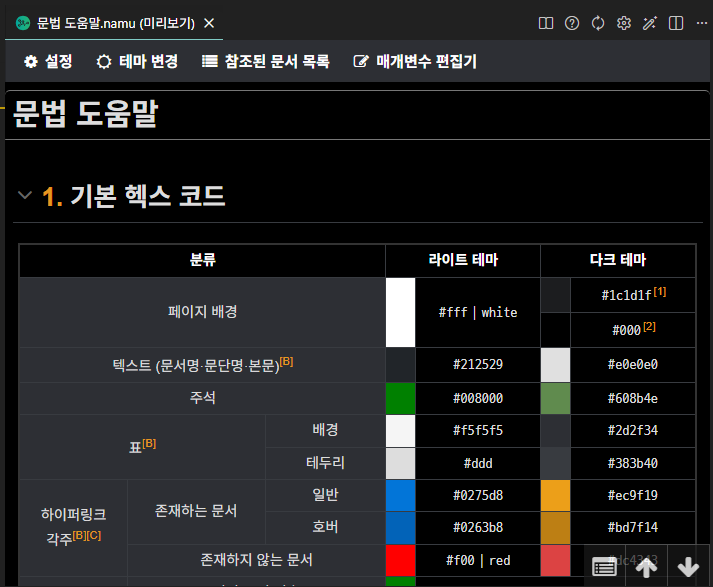
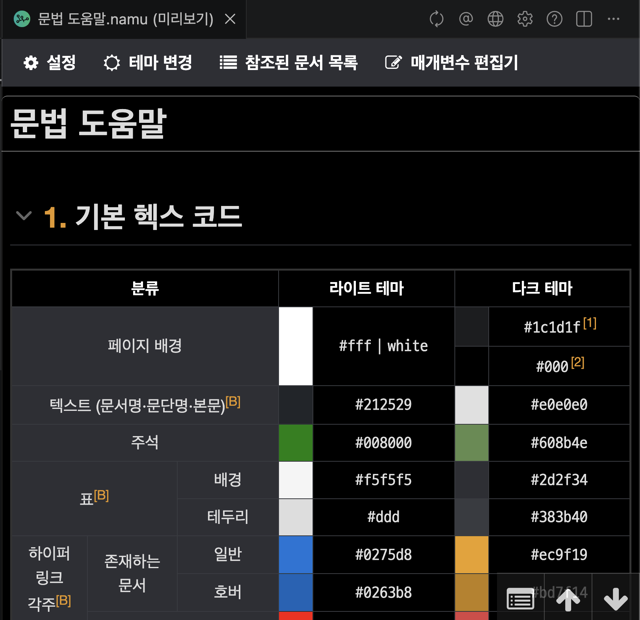
docs: 미리보기 아이콘 변경 반영

diff --git a/TODO.md b/TODO.md
@@ -2,8 +2,15 @@
 
 ## Ready for Release
 
+- **Needs Review**
+  - AI 사용 고지: `openInWeb` 메서드를 로컬호스트 서버로 구현하는 코드를 짜는 과정에서 AI를 사용했습니다.
+    - 자체 검수 및 Mac 환경에서의 정상 작동 시험은 완료했습니다.
+    - AI 코드를 원치 않으시는 경우 알려주시면 해당 수정분을 revert한 PR을 다시 제출해드릴 수 있습니다.
+  - 미리보기 아이콘의 순서와 모양을 변경했습니다. (하단 Change에 명시)
+    - `book` 아이콘으로 주석을 직접 연상하기 어렵다고 판단해 `mention`으로 변경해보았으나, 다시 원래 아이콘으로 편집하셔도 무방합니다.
+    - 단, `namucode_preview_example.png`, `namucode_preview_navigation.png`의 스크린샷 파일에도 반영해야 됩니다.
 - **New**
-  - 복잡한 wiki 구문의 렌더링 결과를 개발자 도구로 분석할 수 있도록 브라우저에서 열기 제공
+  - 복잡한 wiki 구문의 렌더링 결과를 개발자 도구로 분석할 수 있도록 미리보기를 브라우저에서 여는 기능 제공
     - 미리보기에서 웹 아이콘을 눌러 접근 가능
   - table행\*열 스니펫 추가
   - 삼중괄호문 감싸기, 벗기기 코드 동작 지원
@@ -11,7 +18,7 @@
 - **Change**
   - 미리보기 아이콘 순서 및 모양 변경
 - **Fix**
-  - 워크스페이스(폴더)가 열리지 않아 미리보기 불가한 경우 미리보기 아이콘 누를 시 열지 말고 경고
+  - 워크스페이스(폴더)가 열리지 않아 미리보기할 수 없는 경우 미리보기 아이콘 누를 시 열지 말고 경고
   - 매개변수 편집기에서 Enter로 다음 행 추가 시 첫 열로 넘어가도록 수정
   - 현재 탭이 나무마크라면 포커스가 없어도 아이콘을 유지하도록 수정
   - 미리보기에서, 분류의 링크가 일반 문서로 연결되는 현상 수정

diff --git a/docs/preview.md b/docs/preview.md
@@ -31,12 +31,13 @@
 ## 탭 상단 네비게이션 바 설명
 | ![탭 상단 네비게이션 바](../images/namucode_preview_navigation.png) |
 | :---: |
-| 미리보기 탭을 활성화 했을때 상단에 뜨는 메뉴<br>빨간색 네모 안의 4개의 버튼을 주목하세요. |
+| 미리보기 탭을 활성화 했을때 상단에 뜨는 메뉴<br>오른쪽 5개의 버튼을 주목하세요. |
 
- * **첫 번째 버튼: 고정주석 미리보기**: 문서에 쓰인 고정주석의 미리보기를 띄웁니다. 고정주석 미리보기는  문서 내용이 갱신되어 미리보기가 재시도되거나, 강제로 미리보기 재시도를 했을 때 종료됩니다.
- * **두 번째 버튼: 미리보기 도움말 열기**: 이 도움말을 띄웁니다.
- * **세 번째 버튼: 미리보기 재시도**: 미리보기를 재시도합니다. 파서 설정을 바꿨거나, 작업 환경에 변경사항이 있거나(타 파일이 추가되었거나 수정된 경우) 하는 경우에 강제로 미리보기를 재시도할 수 있습니다. 원본 main.namu 파일이 수정되지 않으면 미리보기를 재시도하지 않기 때문에 이때 필요한 기능입니다.
+ * **첫 번째 버튼: 미리보기 재시도**: 미리보기를 재시도합니다. 파서 설정을 바꿨거나, 작업 환경에 변경사항이 있거나(타 파일이 추가되었거나 수정된 경우) 하는 경우에 강제로 미리보기를 재시도할 수 있습니다. 원본 main.namu 파일이 수정되지 않으면 미리보기를 재시도하지 않기 때문에 이때 필요한 기능입니다.
+ * **두 번째 버튼: 고정주석 미리보기**: 문서에 쓰인 고정주석의 미리보기를 띄웁니다. 고정주석 미리보기는  문서 내용이 갱신되어 미리보기가 재시도되거나, 강제로 미리보기 재시도를 했을 때 종료됩니다.
+ * **세 번째 버튼: 브라우저에서 열기**: 미리보기를 브라우저 창에서 엽니다. 별도 프로그램에서 미리보기를 확인하고 싶거나, 브라우저의 개발자 도구를 이용하고 싶을 때 유용합니다.
  * **네 번째 버튼: 미리보기 설정 열기**: 미리보기와 관련된 설정을 엽니다. [파서 설정](../README.md#파서-설정)을 참고하세요.
+ * **다섯 번째 버튼: 미리보기 도움말 열기**: 이 도움말을 띄웁니다.
 
 ## 미리보기 내부 상단 네비게이션 바 설명
 | ![미리보기 내부 상단 네비게이션 바](../images/namucode_preview_inner_navigation.png) |